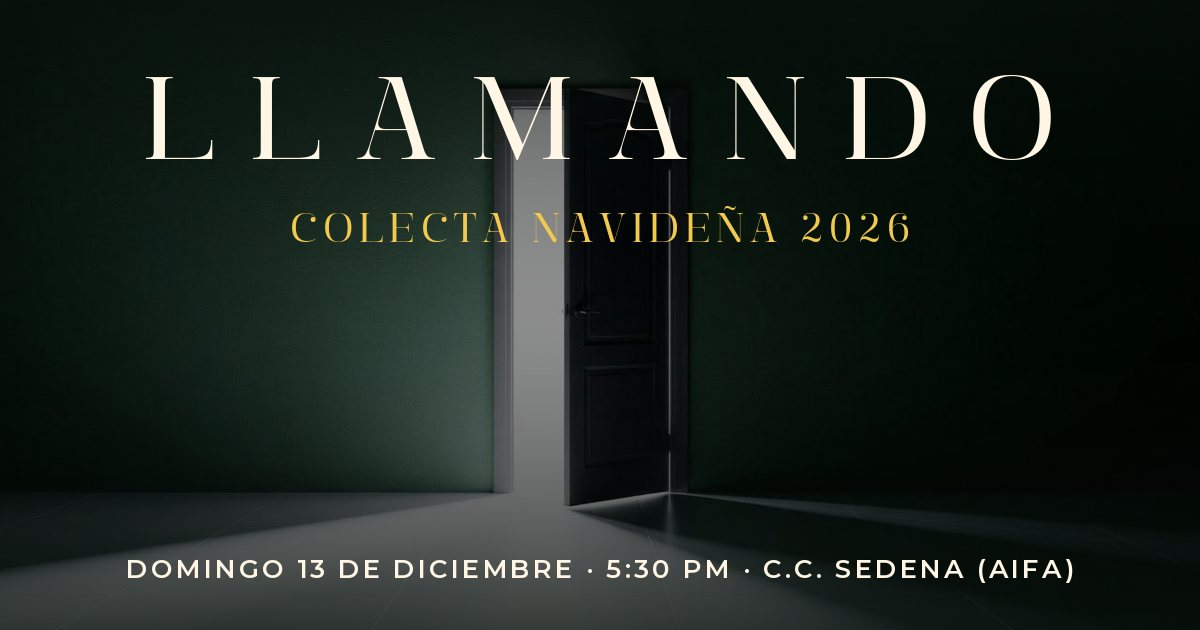
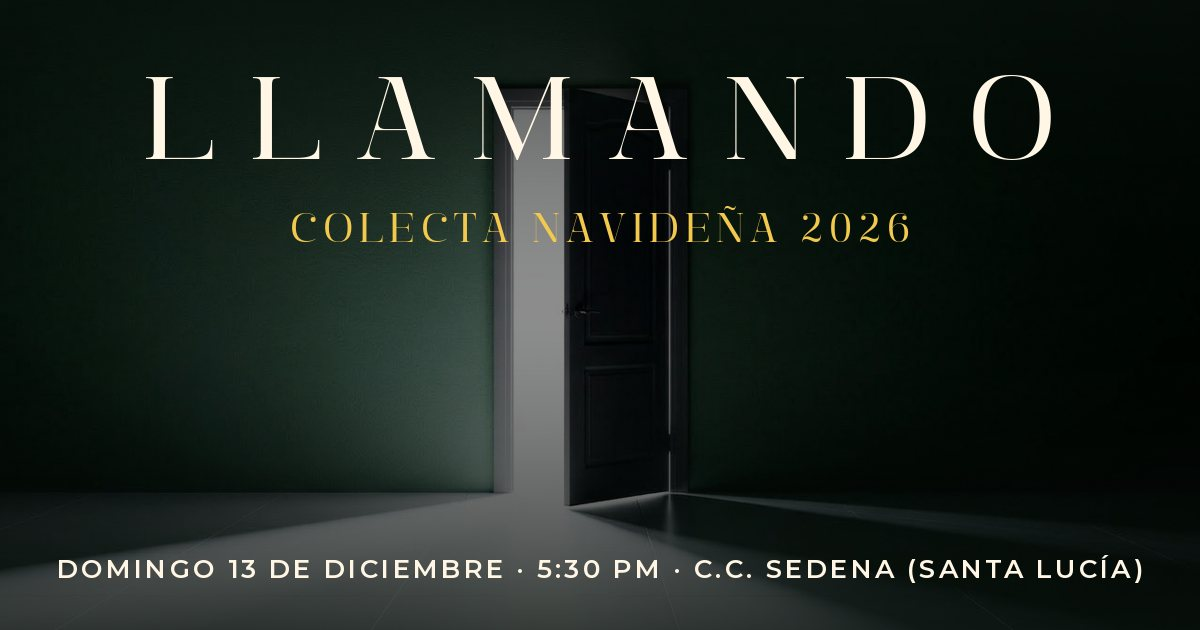
fix(content): rename event location from AIFA to Santa Lucía
Update visible copy, meta/OG/Twitter descriptions, JSON-LD place and the OG image. Google Maps query URLs keep the original search term so the pin location does not change.

Changed region(s): [[0.0308, 0.8746, 0.9558, 0.9349]]

diff --git a/src/index.html b/src/index.html
@@ -3,8 +3,8 @@
 <head>
 <meta charset="utf-8">
 <meta name="viewport" content="width=device-width, initial-scale=1">
-<title>LLAMANDO 2026 · Colecta Navideña Vida Máxima en AIFA</title>
-<meta name="description" content="Colecta navideña de Vida Máxima: juguetes, regalos y dulces para más de 500 niños de casas hogar. Domingo 13 de diciembre, 5:30 PM, Centro Comercial SEDENA (AIFA).">
+<title>LLAMANDO 2026 · Colecta Navideña Vida Máxima en Santa Lucía</title>
+<meta name="description" content="Colecta navideña de Vida Máxima: juguetes, regalos y dulces para más de 500 niños de casas hogar. Domingo 13 de diciembre, 5:30 PM, Centro Comercial SEDENA (Santa Lucía).">
 <link rel="canonical" href="https://colecta.vidamas.uno/">
 <meta name="robots" content="index, follow, max-image-preview:large, max-snippet:-1">
 <meta name="theme-color" content="#0a120e">
@@ -24,14 +24,14 @@
 <meta property="og:site_name" content="Vida Máxima">
 <meta property="og:url" content="https://colecta.vidamas.uno/">
 <meta property="og:title" content="LLAMANDO 2026 · Colecta Navideña Vida Máxima">
-<meta property="og:description" content="Esta Navidad, Jesús sigue llamando. Súmate a la colecta para más de 500 niños de casas hogar. Domingo 13 de diciembre, 5:30 PM, C.C. SEDENA (AIFA).">
+<meta property="og:description" content="Esta Navidad, Jesús sigue llamando. Súmate a la colecta para más de 500 niños de casas hogar. Domingo 13 de diciembre, 5:30 PM, C.C. SEDENA (Santa Lucía).">
 <meta property="og:image" content="https://colecta.vidamas.uno/og-image.jpg">
 <meta property="og:image:width" content="1200">
 <meta property="og:image:height" content="630">
-<meta property="og:image:alt" content="LLAMANDO · Colecta Navideña 2026 · Domingo 13 de diciembre, 5:30 PM, C.C. SEDENA (AIFA)">
+<meta property="og:image:alt" content="LLAMANDO · Colecta Navideña 2026 · Domingo 13 de diciembre, 5:30 PM, C.C. SEDENA (Santa Lucía)">
 <meta name="twitter:card" content="summary_large_image">
 <meta name="twitter:title" content="LLAMANDO 2026 · Colecta Navideña Vida Máxima">
-<meta name="twitter:description" content="Súmate a la colecta para más de 500 niños de casas hogar. Domingo 13 de diciembre, 5:30 PM, C.C. SEDENA (AIFA).">
+<meta name="twitter:description" content="Súmate a la colecta para más de 500 niños de casas hogar. Domingo 13 de diciembre, 5:30 PM, C.C. SEDENA (Santa Lucía).">
 <meta name="twitter:image" content="https://colecta.vidamas.uno/og-image.jpg">
 
 <script type="application/ld+json">
@@ -67,11 +67,10 @@
       "url": "https://colecta.vidamas.uno/",
       "location": {
         "@type": "Place",
-        "name": "Centro Comercial SEDENA (AIFA)",
+        "name": "Centro Comercial SEDENA (Santa Lucía)",
         "address": {
           "@type": "PostalAddress",
-          "streetAddress": "Aeropuerto Internacional Felipe Ángeles",
-          "addressLocality": "Zumpango",
+          "addressLocality": "Santa Lucía, Zumpango",
           "addressRegion": "Estado de México",
           "addressCountry": "MX"
         }
@@ -133,7 +132,7 @@
     <div style="width:0;min-width:100%;display:flex;flex-wrap:wrap;justify-content:space-between;align-items:last baseline;gap:24px;">
       <div style="display:flex;flex-direction:column;gap:14px;align-items:flex-start;">
         <a class="btn btn-gold" data-luma href="https://luma.com/pgi8qa9t" style="padding:14px 26px;font-size:14px;letter-spacing:.02em;">Quiero ser parte</a>
-        <p style="margin:0;font-size:13px;line-height:1.5;letter-spacing:.08em;color:#ece2cd;text-wrap:balance;">Domingo 13 de diciembre · Centro Comercial SEDENA (AIFA)</p>
+        <p style="margin:0;font-size:13px;line-height:1.5;letter-spacing:.08em;color:#ece2cd;text-wrap:balance;">Domingo 13 de diciembre · Centro Comercial SEDENA (Santa Lucía)</p>
       </div>
       <p style="margin:0;margin-left:auto;font-family:'Manison',serif;font-size:clamp(22px,2.8vw,42px);line-height:1.1;text-transform:uppercase;letter-spacing:.04em;color:#F2C94C;text-align:right;">Él está a la puerta</p>
     </div>
@@ -306,7 +305,7 @@
         <div data-reveal style="padding:clamp(28px,3.4vw,48px) clamp(0px,2.4vw,40px) clamp(28px,3.4vw,48px) 0;display:flex;flex-direction:column;gap:clamp(10px,1.2vw,16px);border-bottom:1px solid rgba(255,246,229,.08);">
           <dt style="font-size:12px;letter-spacing:.3em;text-transform:uppercase;color:#F2C94C;font-weight:600;">Lugar</dt>
           <dd style="margin:0;font-family:'Manison',serif;font-weight:400;font-size:clamp(34px,3.8vw,60px);line-height:1;padding-top:.1em;text-transform:uppercase;color:#FFF6E5;text-wrap:balance;">Centro Comercial SEDENA</dd>
-          <dd style="margin:0;font-size:14px;letter-spacing:.14em;text-transform:uppercase;color:#cfc4ad;font-weight:500;">AIFA</dd>
+          <dd style="margin:0;font-size:14px;letter-spacing:.14em;text-transform:uppercase;color:#cfc4ad;font-weight:500;">Santa Lucía</dd>
         </div>
       </dl>
       <div style="display:flex;flex-wrap:wrap;gap:14px;">
@@ -371,17 +370,17 @@
   <div style="max-width:1440px;margin:0 auto;padding:clamp(88px,13vw,200px) clamp(20px,6vw,96px) clamp(80px,10vw,150px);display:flex;flex-direction:column;gap:clamp(48px,7vw,100px);">
     <header style="display:flex;flex-direction:column;gap:clamp(20px,3vw,40px);">
       <div data-reveal style="display:flex;align-items:center;gap:18px;font-size:12px;font-weight:600;letter-spacing:.3em;text-transform:uppercase;color:#F2C94C;"><span>Capítulo 05</span><span style="flex:1;height:1px;background:rgba(242,201,76,.35);"></span><span style="color:#cfc4ad;">La ubicación</span></div>
-      <h2 style="margin:0;font-family:'Manison',serif;font-weight:400;font-size:clamp(40px,7.6vw,128px);line-height:.92;letter-spacing:.02em;text-transform:uppercase;color:#FFF6E5;display:flex;flex-direction:column;gap:.1em;text-wrap:balance;"><span style="display:block;padding-top:.12em;">Nos vemos en</span> <span style="display:block;padding-top:.12em;color:#F2C94C;">Centro Comercial SEDENA (AIFA)</span></h2>
+      <h2 style="margin:0;font-family:'Manison',serif;font-weight:400;font-size:clamp(40px,7.6vw,128px);line-height:.92;letter-spacing:.02em;text-transform:uppercase;color:#FFF6E5;display:flex;flex-direction:column;gap:.1em;text-wrap:balance;"><span style="display:block;padding-top:.12em;">Nos vemos en</span> <span style="display:block;padding-top:.12em;color:#F2C94C;">Centro Comercial SEDENA (Santa Lucía)</span></h2>
     </header>
     <div style="display:flex;flex-direction:column;">
       <div data-reveal style="position:relative;width:100%;height:clamp(340px,52vw,620px);overflow:hidden;border-radius:2px;background:#15201a;">
-        <iframe title="Mapa del Centro Comercial SEDENA en el AIFA" src="https://www.google.com/maps?q=Centro%20Comercial%20SEDENA%20AIFA&amp;output=embed" loading="lazy" referrerpolicy="no-referrer-when-downgrade" style="position:absolute;inset:0;width:100%;height:100%;border:0;filter:grayscale(1) invert(.92) sepia(.35) hue-rotate(95deg) saturate(.9) brightness(.9) contrast(.95);"></iframe>
+        <iframe title="Mapa del Centro Comercial SEDENA en Santa Lucía" src="https://www.google.com/maps?q=Centro%20Comercial%20SEDENA%20AIFA&amp;output=embed" loading="lazy" referrerpolicy="no-referrer-when-downgrade" style="position:absolute;inset:0;width:100%;height:100%;border:0;filter:grayscale(1) invert(.92) sepia(.35) hue-rotate(95deg) saturate(.9) brightness(.9) contrast(.95);"></iframe>
         <div aria-hidden="true" style="position:absolute;inset:0;pointer-events:none;box-shadow:inset 0 0 0 1px rgba(242,201,76,.25);background:linear-gradient(180deg,rgba(10,18,14,.35) 0%,rgba(10,18,14,0) 25%,rgba(10,18,14,0) 70%,rgba(10,18,14,.55) 100%);"></div>
       </div>
       <address data-reveal style="font-style:normal;position:relative;align-self:flex-start;width:min(calc(100% - clamp(0px,4vw,48px)),520px);margin:calc(-1 * clamp(60px,9vw,140px)) 0 0 clamp(0px,3vw,40px);background:#0F5C3B;padding:clamp(28px,3.4vw,44px);display:flex;flex-direction:column;gap:clamp(20px,2.4vw,28px);box-shadow:0 30px 60px -20px rgba(0,0,0,.6);">
         <div style="display:flex;flex-direction:column;gap:10px;">
           <div style="font-size:12px;font-weight:600;letter-spacing:.3em;text-transform:uppercase;color:#F2C94C;">Domingo 13 de diciembre · 5:30 PM</div>
-          <div style="font-weight:700;font-size:clamp(20px,2vw,26px);line-height:1.25;letter-spacing:.02em;text-transform:uppercase;color:#FFF6E5;">Centro Comercial SEDENA (AIFA)</div>
+          <div style="font-weight:700;font-size:clamp(20px,2vw,26px);line-height:1.25;letter-spacing:.02em;text-transform:uppercase;color:#FFF6E5;">Centro Comercial SEDENA (Santa Lucía)</div>
         </div>
         <div style="display:flex;flex-wrap:wrap;gap:12px;padding-top:clamp(18px,2vw,24px);border-top:1px solid rgba(255,246,229,.2);">
           <a class="btn btn-gold" href="https://maps.google.com/?q=Centro+Comercial+SEDENA+AIFA" target="_blank" rel="noopener noreferrer" style="padding:15px 26px;font-size:15px;"><svg width="16" height="16" viewBox="0 0 24 24" fill="none" stroke="currentColor" stroke-width="2.2" stroke-linecap="round" stroke-linejoin="round" aria-hidden="true"><path d="M12 21s-7-6.2-7-11.5A7 7 0 0 1 19 9.5C19 14.8 12 21 12 21z"/><circle cx="12" cy="9.5" r="2.5"/></svg>Cómo llegar</a>
@@ -410,7 +409,7 @@
       <div style="display:flex;flex-direction:column;gap:16px;align-items:center;text-align:center;min-width:0;padding-top:clamp(24px,2.6vw,32px);border-top:1px solid rgba(242,201,76,.28);">
         <div style="font-size:11px;font-weight:600;letter-spacing:.3em;text-transform:uppercase;color:#F2C94C;padding-bottom:6px;">Contacto</div>
         <a class="flink" href="tel:+525579790351" style="font-size:18px;letter-spacing:0;text-transform:none;color:#FFF6E5;">+52 55 7979 0351</a>
-        <div style="font-size:14px;line-height:1.6;color:#cfc4ad;">Domingo 13 de diciembre · 5:30 PM<br>Centro Comercial SEDENA (AIFA)</div>
+        <div style="font-size:14px;line-height:1.6;color:#cfc4ad;">Domingo 13 de diciembre · 5:30 PM<br>Centro Comercial SEDENA (Santa Lucía)</div>
         <a class="btn btn-gold" data-luma href="https://luma.com/pgi8qa9t" style="margin-top:6px;padding:14px 26px;font-size:14px;">Quiero ser parte</a>
       </div>
     </div>

diff --git a/scripts/build-images.py b/scripts/build-images.py
@@ -159,7 +159,7 @@ def og_image():
     s = "COLECTA NAVIDEÑA 2026"
     sw = tracked_width(d, s, sub, 6)
     tracked(d, ((W - sw) / 2, 212), s, sub, gold, 6)
-    info = "DOMINGO 13 DE DICIEMBRE · 5:30 PM · C.C. SEDENA (AIFA)"
+    info = "DOMINGO 13 DE DICIEMBRE · 5:30 PM · C.C. SEDENA (SANTA LUCÍA)"
     iw = tracked_width(d, info, mont, 3)
     tracked(d, ((W - iw) / 2, H - 78), info, mont, cream, 3)
     img.convert("RGB").save(PUBLIC / "og-image.jpg", "JPEG", quality=84, optimize=True, progressive=True)
